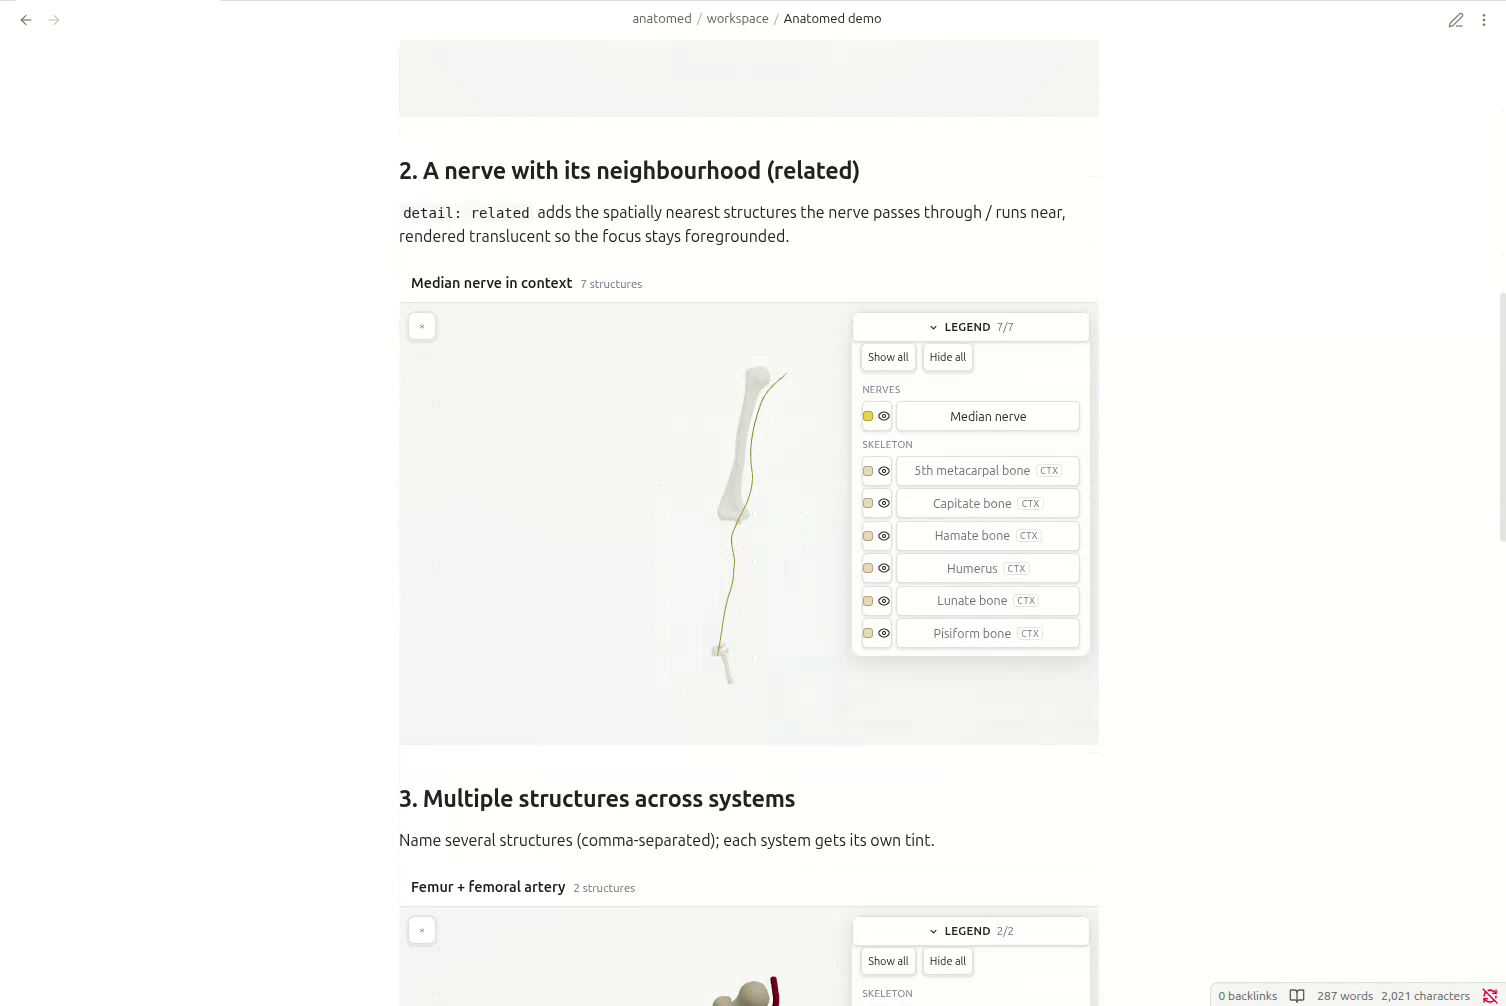
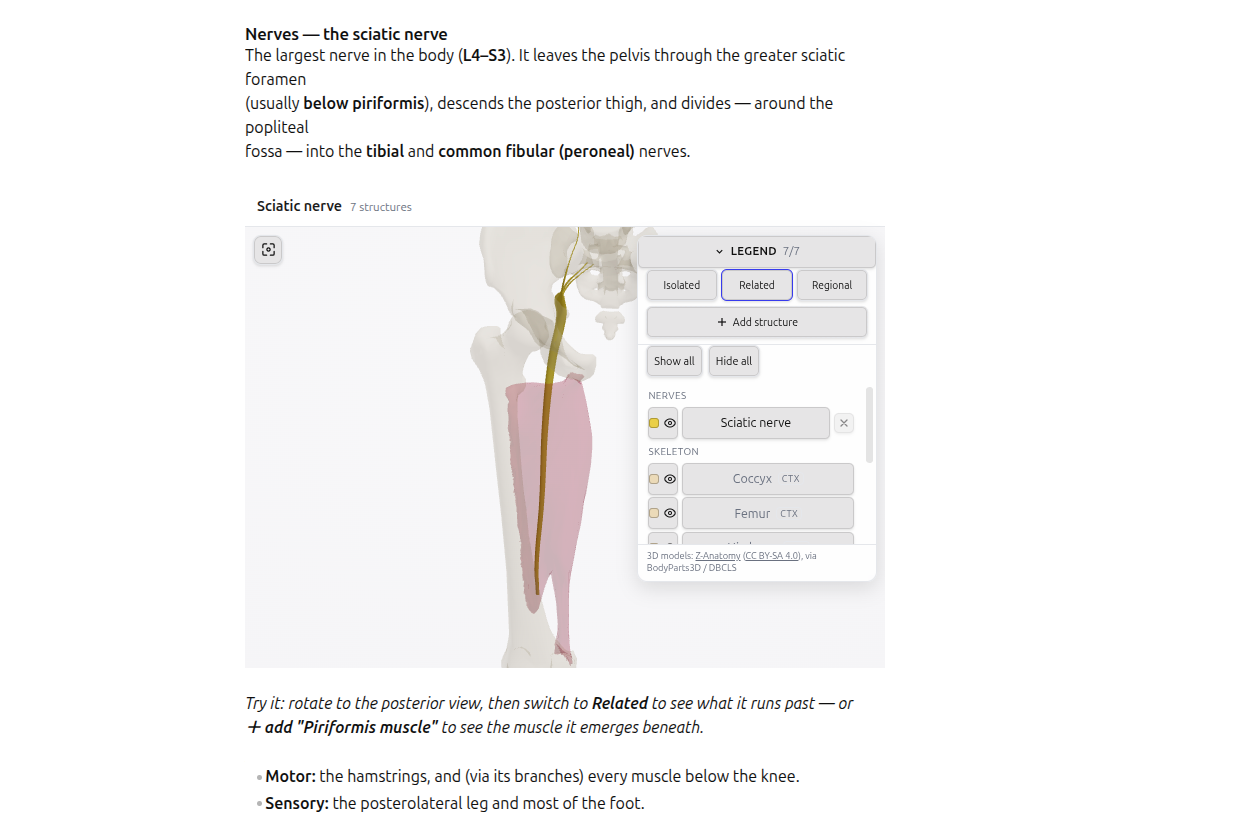
English + Latin only search; new demo thumbnail
- resolveParts.ts: drop Croatian aliases/group keys (byte-identical to
  anatomed-mcp) — English and Latin are the only search languages now.
- README: reflect English/Latin only.
- docs/obsidian-demo-poster.png: new demo video thumbnail.

diff --git a/README.md b/README.md
@@ -38,7 +38,7 @@ title: Cervical spine
 ```
 ````
 
-- `region:` / `parts:` accept one or more structures (comma-separated), in English, Latin, or Croatian.
+- `region:` / `parts:` accept one or more structures (comma-separated), in English or Latin.
 - `detail:` accepts `isolated` (default), `related`, or `regional` (surrounding structures shown translucent).
 - `title:` sets an optional heading.
 